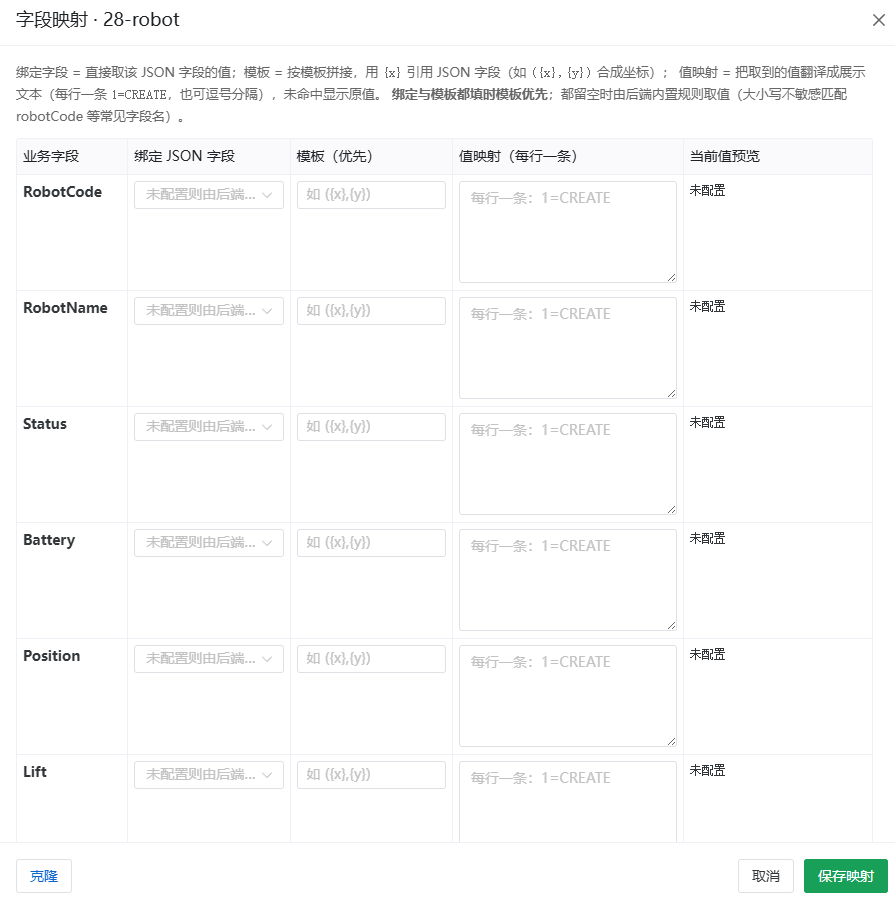
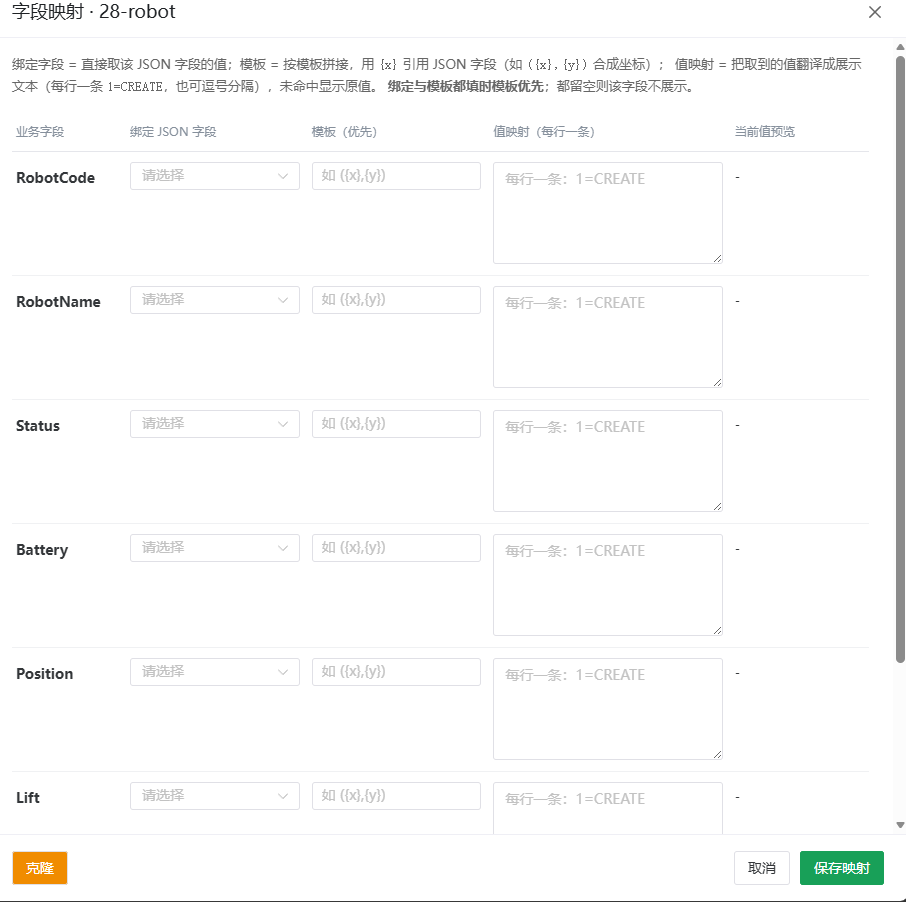
ui(robot-mapping): per-field group layout, value-map input same height as others
- table/flex-rows replaced by per-field groups: field name as small
  heading + one row of (bind select / template input / value-map input /
  preview), no column alignment so one tall control never stretches
  anything else
- value-map is a 1-row textarea (same height as the other inputs),
  resizable via the corner handle when a long enum list needs room
- answers user's question: the table existed only for column alignment;
  this layout removes that dependency entirely, and per-field groups +
  robotKey rebuild keep previous robots' edits fully isolated

diff --git a/frontend/src/modules/sites/FieldMappingDialog.vue b/frontend/src/modules/sites/FieldMappingDialog.vue
@@ -197,47 +197,48 @@ async function save() {
           值映射 = 把取到的值翻译成展示文本（每行一条 <code>1=CREATE</code>，也可逗号分隔），未命中显示原值。
           <b>绑定与模板都填时模板优先</b>；都留空则该字段不展示。
         </p>
-        <div class="mapping-list">
-          <div class="mapping-head">
-            <span class="col-a">业务字段</span>
-            <span class="col-b">绑定 JSON 字段</span>
-            <span class="col-b">模板（优先）</span>
-            <span class="col-c">值映射（每行一条）</span>
-            <span class="col-d">当前值预览</span>
-          </div>
-          <div v-for="f in BIZ_FIELDS" :key="f.key" class="mapping-row">
-            <div class="col-a field-label">{{ f.label }}</div>
-            <div class="col-b">
-              <!-- key 绑定 robotKey：切换实例时销毁重建，修复 textarea 高度残留 -->
-              <n-select
-                :key="`b-${robotKey}-${f.key}`"
-                v-model:value="bindings[f.key]"
-                size="small"
-                clearable
-                filterable
-                :options="jsonFields.map((jf) => ({ label: jf, value: jf }))"
-                placeholder="请选择"
-                style="width: 100%"
-              />
+        <div class="field-groups">
+          <div v-for="f in BIZ_FIELDS" :key="f.key" class="field-group">
+            <div class="field-title">{{ f.label }}</div>
+            <div class="field-controls">
+              <div class="f-item">
+                <div class="f-label">绑定 JSON 字段</div>
+                <!-- key 绑定 robotKey：切换实例时销毁重建，杜绝上一个 Robot 的内容/高度残留 -->
+                <n-select
+                  :key="`b-${robotKey}-${f.key}`"
+                  v-model:value="bindings[f.key]"
+                  size="small"
+                  clearable
+                  filterable
+                  :options="jsonFields.map((jf) => ({ label: jf, value: jf }))"
+                  placeholder="请选择"
+                  style="width: 100%"
+                />
+              </div>
+              <div class="f-item">
+                <div class="f-label">模板（优先）</div>
+                <n-input
+                  :key="`t-${robotKey}-${f.key}`"
+                  v-model:value="templates[f.key]"
+                  size="small"
+                  placeholder="如 ({x},{y})"
+                />
+              </div>
+              <div class="f-item">
+                <div class="f-label">值映射（如 1=CREATE）</div>
+                <n-input
+                  :key="`v-${robotKey}-${f.key}`"
+                  v-model:value="valueMaps[f.key]"
+                  type="textarea"
+                  :rows="1"
+                  placeholder="如 1=CREATE（可拖拽右下角扩大）"
+                />
+              </div>
+              <div class="f-item">
+                <div class="f-label">当前值预览</div>
+                <div class="preview mono">{{ preview(f.key) }}</div>
+              </div>
             </div>
-            <div class="col-b">
-              <n-input
-                :key="`t-${robotKey}-${f.key}`"
-                v-model:value="templates[f.key]"
-                size="small"
-                placeholder="如 ({x},{y})"
-              />
-            </div>
-            <div class="col-c">
-              <n-input
-                :key="`v-${robotKey}-${f.key}`"
-                v-model:value="valueMaps[f.key]"
-                type="textarea"
-                :rows="4"
-                placeholder="每行一条：1=CREATE"
-              />
-            </div>
-            <div class="col-d preview mono">{{ preview(f.key) }}</div>
           </div>
         </div>
       </n-spin>
@@ -286,62 +287,41 @@ async function save() {
   </n-modal>
 </template>
 <style scoped>
-.mapping-list {
+.field-groups {
   display: flex;
   flex-direction: column;
+  gap: 14px;
 }
-.mapping-head,
-.mapping-row {
-  display: flex;
-  gap: 12px;
-  align-items: flex-start;
-  padding: 10px 4px;
+.field-group {
+  padding-bottom: 10px;
+  border-bottom: 1px solid #f5f6f8;
 }
-.mapping-head {
-  color: #86909c;
-  font-size: 12px;
-  border-bottom: 1px solid #e5e6eb;
-}
-.mapping-row {
-  border-bottom: 1px solid #f0f1f3;
-}
-.mapping-row:last-child {
+.field-group:last-child {
   border-bottom: none;
 }
-.col-a { width: 12%; flex: none; }
-.col-b { width: 20%; flex: none; }
-.col-c { width: 27%; flex: none; }
-.col-d { flex: 1; min-width: 0; }
-.field-label {
+.field-title {
   font-weight: 600;
-  padding-top: 5px;
+  font-size: 13px;
+  margin-bottom: 8px;
+}
+.field-controls {
+  display: flex;
+  gap: 12px;
+  align-items: flex-end;
+}
+.f-item {
+  flex: 1;
+  min-width: 0;
+}
+.f-label {
+  color: #86909c;
+  font-size: 12px;
+  margin-bottom: 4px;
 }
 .preview {
   font-size: 12px;
   word-break: break-all;
-  padding-top: 5px;
-}
-.mapping-head .col-a,
-.mapping-head .col-b,
-.mapping-head .col-c,
-.mapping-head .col-d {
-  padding-top: 2px;
-}
-</style>
-<style>
-/* 克隆选择：选中行高亮（modal 挂 body，样式需全局） */
-.clone-row {
-  cursor: pointer;
-}
-.clone-row.clone-selected > td {
-  background: rgba(11, 99, 206, 0.1);
-}
-</style>
-
-<style scoped>
-.footer-row {
-  display: flex;
-  align-items: center;
-  gap: 10px;
+  padding: 5px 0;
+  min-height: 24px;
 }
 </style>
